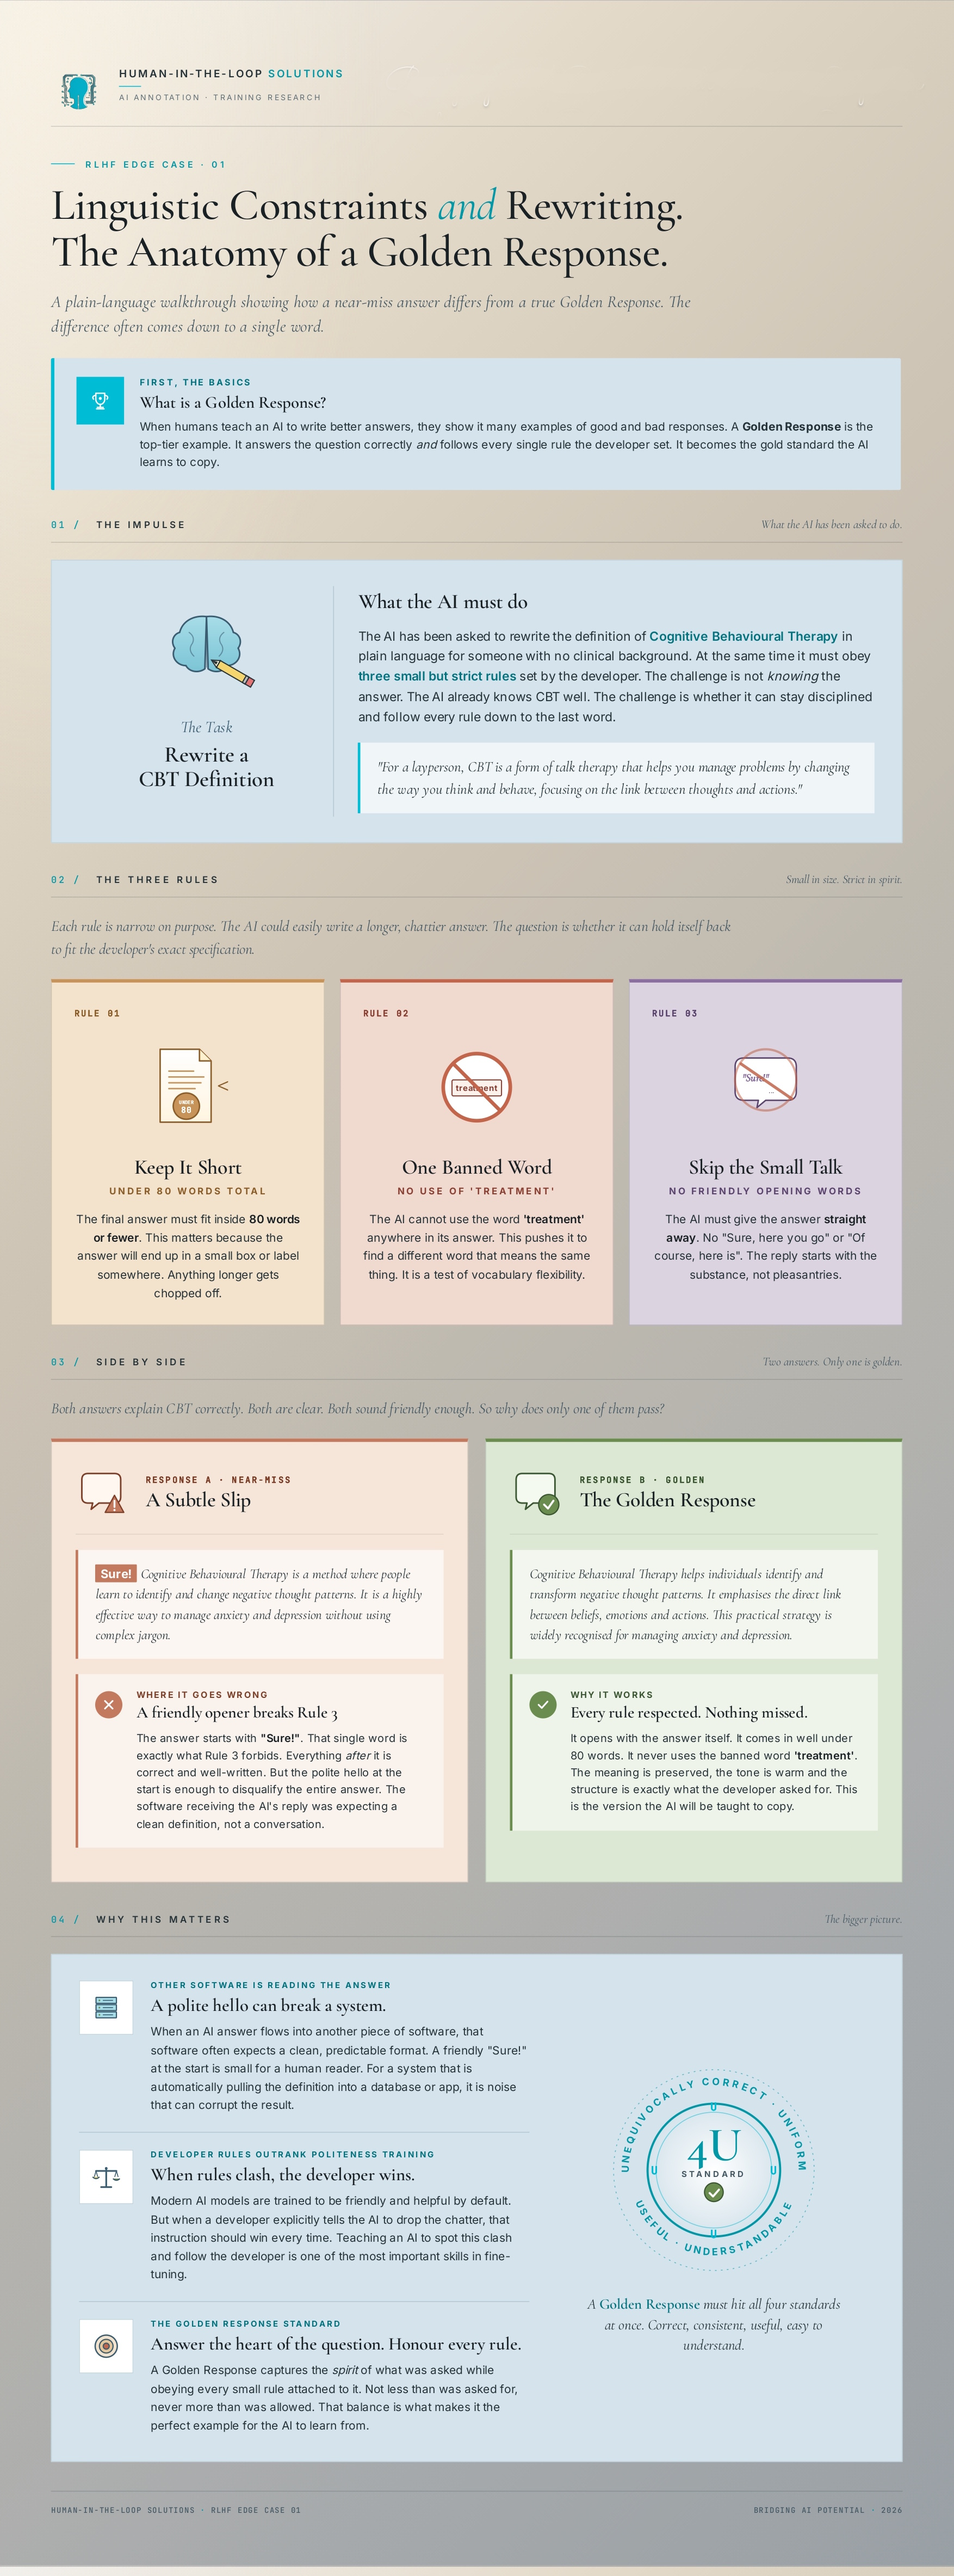
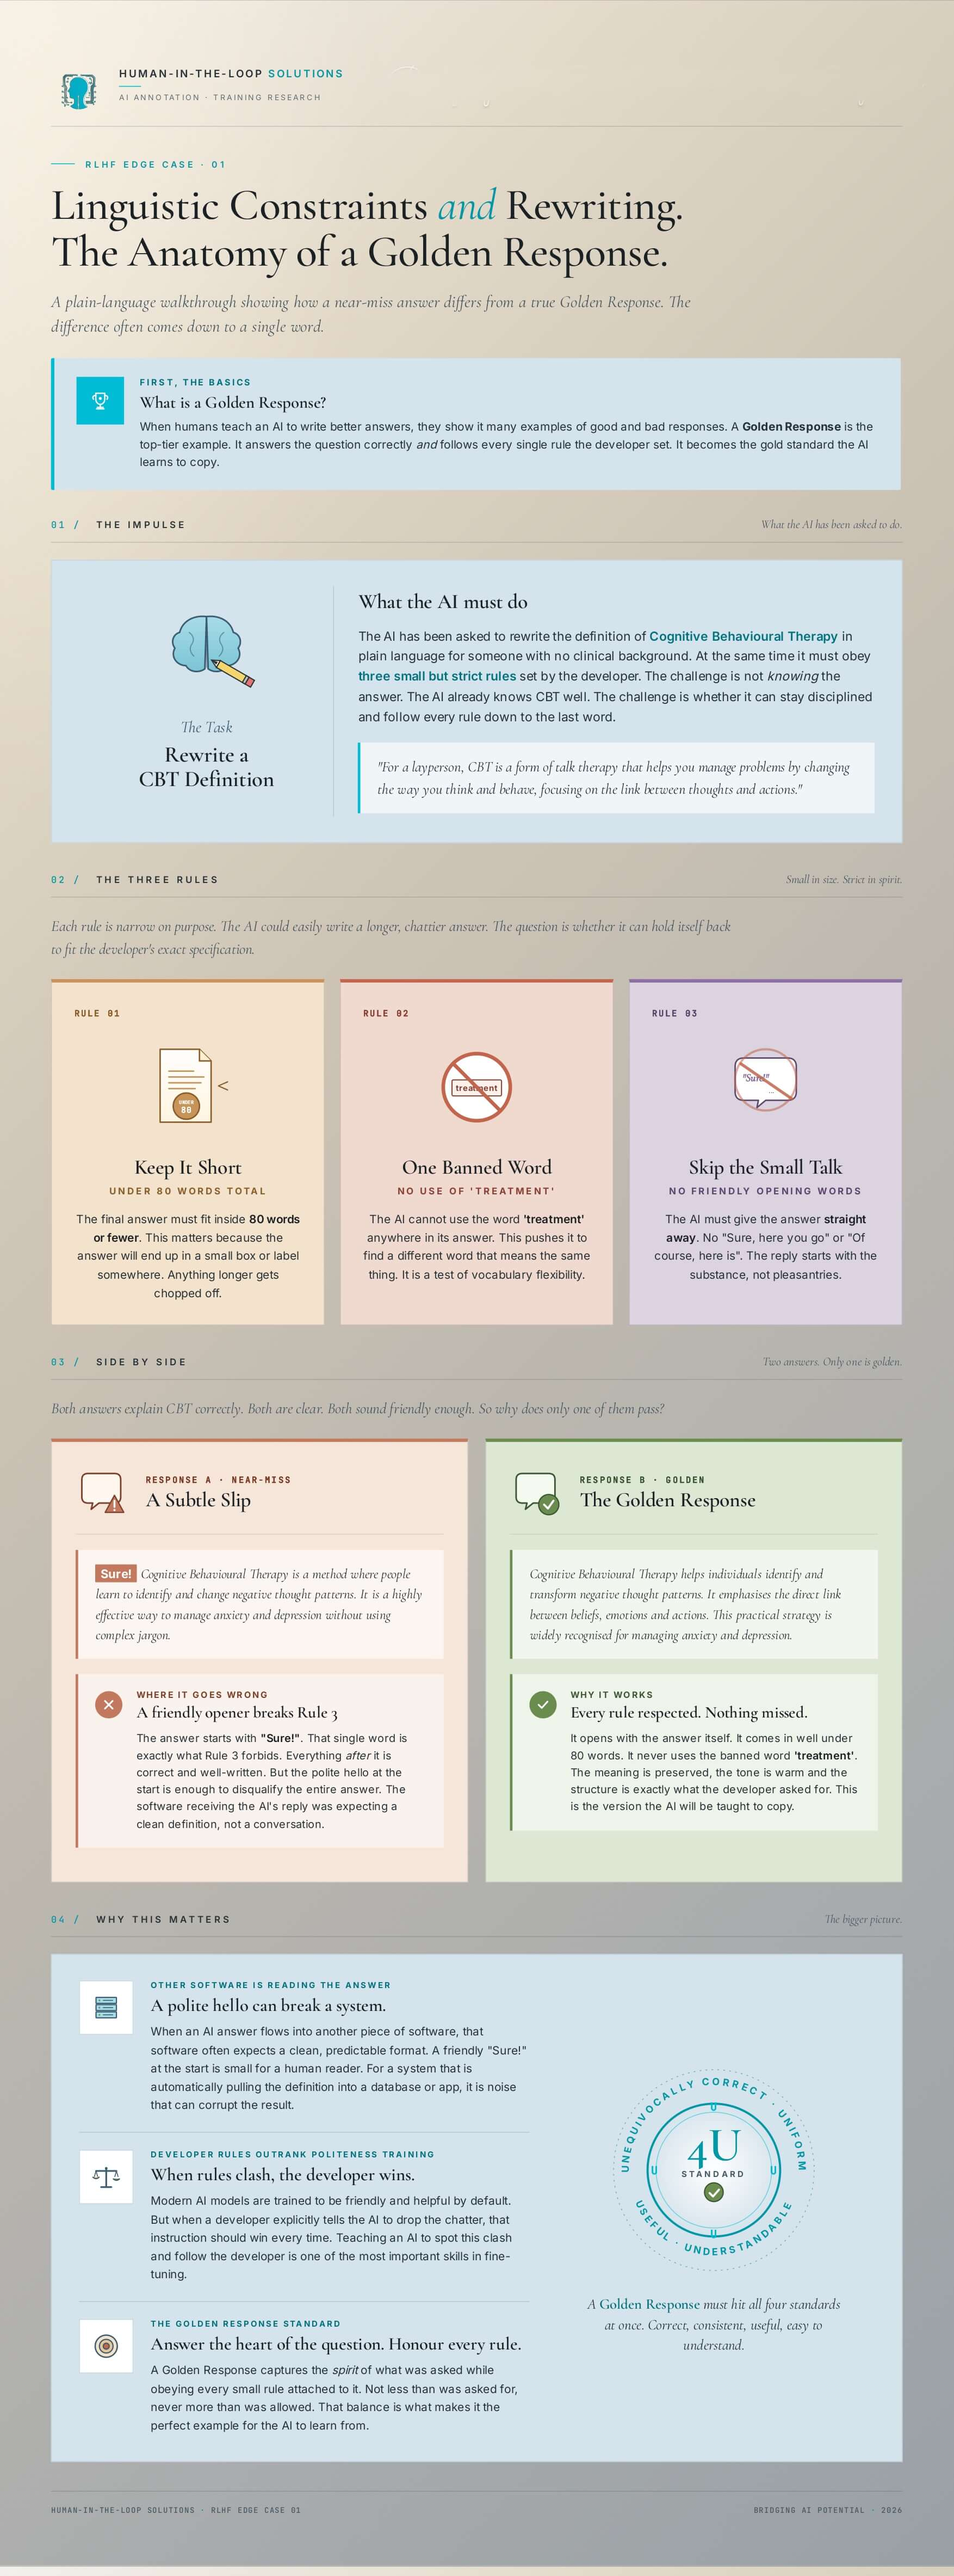
Add SEO setup and compress infographic images

diff --git a/app/opengraph-image.js b/app/opengraph-image.js
@@ -1,0 +1,144 @@
+import { ImageResponse } from 'next/og';
+
+// Next.js convention: this file becomes /opengraph-image at build time
+// and is automatically referenced by the metadata.openGraph.images array.
+export const runtime = 'edge';
+export const alt = 'Human-in-the-Loop Solutions — Where instruction becomes intelligence';
+export const size = { width: 1200, height: 630 };
+export const contentType = 'image/png';
+
+export default async function OpengraphImage() {
+  return new ImageResponse(
+    (
+      <div
+        style={{
+          width: '100%',
+          height: '100%',
+          display: 'flex',
+          flexDirection: 'column',
+          justifyContent: 'space-between',
+          background: 'linear-gradient(135deg, #f2f0ec 0%, #cfc5b6 28%, #bcb8af 52%, #aaacad 76%, #99a0a5 100%)',
+          padding: '80px',
+          fontFamily: 'serif',
+        }}
+      >
+        {/* Top: small wordmark */}
+        <div style={{ display: 'flex', alignItems: 'center', gap: 16 }}>
+          <div
+            style={{
+              width: 56,
+              height: 56,
+              border: '2px solid #263238',
+              borderRadius: 8,
+              display: 'flex',
+              alignItems: 'center',
+              justifyContent: 'center',
+              background: 'rgba(255,255,255,.4)',
+            }}
+          >
+            <div
+              style={{
+                width: 16,
+                height: 16,
+                borderRadius: 8,
+                background: '#00BCD4',
+              }}
+            />
+          </div>
+          <div
+            style={{
+              display: 'flex',
+              flexDirection: 'column',
+              gap: 4,
+              lineHeight: 1,
+            }}
+          >
+            <div
+              style={{
+                fontSize: 18,
+                fontWeight: 700,
+                letterSpacing: '0.18em',
+                color: '#263238',
+                textTransform: 'uppercase',
+              }}
+            >
+              HUMAN-IN-THE-LOOP <span style={{ color: '#00BCD4' }}>SOLUTIONS</span>
+            </div>
+            <div
+              style={{
+                fontSize: 13,
+                fontWeight: 500,
+                letterSpacing: '0.24em',
+                color: 'rgba(38,50,56,.7)',
+                textTransform: 'uppercase',
+              }}
+            >
+              AI Annotation · Training Research
+            </div>
+          </div>
+        </div>
+
+        {/* Middle: title */}
+        <div style={{ display: 'flex', flexDirection: 'column', gap: 24 }}>
+          <div
+            style={{
+              fontSize: 84,
+              fontWeight: 500,
+              lineHeight: 1.05,
+              color: '#ffffff',
+              letterSpacing: '-0.02em',
+              textShadow: '0 1px 0 rgba(38,50,56,.12)',
+            }}
+          >
+            Where instruction becomes{' '}
+            <span style={{ fontStyle: 'italic', color: '#00BCD4' }}>intelligence</span>.
+          </div>
+          <div
+            style={{
+              fontSize: 22,
+              fontWeight: 400,
+              color: 'rgba(38,50,56,.78)',
+              maxWidth: 800,
+              lineHeight: 1.4,
+            }}
+          >
+            A research-led practice in the craft of Golden Responses: the carefully designed examples that teach modern language models to be correct, careful and humane under pressure.
+          </div>
+        </div>
+
+        {/* Bottom: 4U strap */}
+        <div
+          style={{
+            display: 'flex',
+            alignItems: 'center',
+            gap: 14,
+            paddingTop: 24,
+            borderTop: '1px solid rgba(38,50,56,.22)',
+          }}
+        >
+          <div
+            style={{
+              width: 10,
+              height: 10,
+              background: '#00BCD4',
+            }}
+          />
+          <div
+            style={{
+              fontSize: 15,
+              fontWeight: 600,
+              letterSpacing: '0.22em',
+              color: '#00BCD4',
+              textTransform: 'uppercase',
+            }}
+          >
+            4U · CORRECT / UNIFORM / USEFUL / UNDERSTANDABLE
+          </div>
+        </div>
+      </div>
+    ),
+    {
+      ...size,
+    }
+  );
+}

diff --git a/app/layout.js b/app/layout.js
@@ -30,9 +30,72 @@ const italianno = Italianno({
   display: 'swap',
 });
 
+// Change this constant if your production domain differs from the email domain.
+// metadataBase tells Next.js what the absolute base URL is when generating
+// OG and canonical links, so it has to match what you actually deploy under.
+const SITE_URL = 'https://human-in-the-loop-solutions.org';
+
 export const metadata = {
-  title: 'Human-in-the-Loop Solutions',
-  description: 'Where instruction becomes intelligence. Bridging AI Potential with Human Expertise.',
+  metadataBase: new URL(SITE_URL),
+  title: {
+    default: 'Human-in-the-Loop Solutions — Where instruction becomes intelligence',
+    template: '%s | Human-in-the-Loop Solutions',
+  },
+  description:
+    'A research-led practice in the craft of Golden Responses: carefully designed examples that teach modern language models to be correct, careful and humane under pressure. AI annotation, alignment research, and language pedagogy.',
+  keywords: [
+    'AI annotation',
+    'RLHF',
+    'Golden Response',
+    'AI alignment',
+    'language model training',
+    'reinforcement learning from human feedback',
+    'AI safety',
+    'TESOL',
+    'applied linguistics',
+    'human-in-the-loop',
+    'AI pedagogy',
+  ],
+  authors: [{ name: 'Human-in-the-Loop Solutions' }],
+  creator: 'Human-in-the-Loop Solutions',
+  publisher: 'Human-in-the-Loop Solutions',
+  alternates: {
+    canonical: '/',
+  },
+  openGraph: {
+    type: 'website',
+    locale: 'en_GB',
+    url: SITE_URL,
+    siteName: 'Human-in-the-Loop Solutions',
+    title: 'Human-in-the-Loop Solutions — Where instruction becomes intelligence',
+    description:
+      'A research-led practice in the craft of Golden Responses. AI annotation, alignment research, and language pedagogy — bridging human expertise with AI potential.',
+    // The OG image is generated automatically from app/opengraph-image.js,
+    // so no images array is needed here. Next.js picks it up by convention.
+  },
+  twitter: {
+    card: 'summary_large_image',
+    title: 'Human-in-the-Loop Solutions — Where instruction becomes intelligence',
+    description:
+      'A research-led practice in the craft of Golden Responses. AI annotation, alignment research, and language pedagogy.',
+  },
+  robots: {
+    index: true,
+    follow: true,
+    googleBot: {
+      index: true,
+      follow: true,
+      'max-image-preview': 'large',
+      'max-snippet': -1,
+      'max-video-preview': -1,
+    },
+  },
+  // verification token slots — add these when you set up Google Search
+  // Console and Bing Webmaster Tools (see SEO-SETUP.md for instructions).
+  // verification: {
+  //   google: 'PASTE-GOOGLE-VERIFICATION-TOKEN-HERE',
+  //   other: { 'msvalidate.01': 'PASTE-BING-TOKEN-HERE' },
+  // },
 };
 
 export const viewport = {
@@ -43,9 +106,38 @@ export const viewport = {
   // browser zoom; the viewport meta should never disable it.
 };
 
+// JSON-LD structured data tells Google what kind of entity this is.
+// An "Organization" schema gives you the best chance of a rich result
+// in search (logo, social links, contact email, etc.).
+const organizationSchema = {
+  '@context': 'https://schema.org',
+  '@type': 'Organization',
+  name: 'Human-in-the-Loop Solutions',
+  alternateName: 'HITL Solutions',
+  url: SITE_URL,
+  description:
+    'A research-led practice in the craft of Golden Responses for AI alignment and annotation.',
+  email: 'hello@human-in-the-loop-solutions.org',
+  knowsAbout: [
+    'AI annotation',
+    'Reinforcement learning from human feedback',
+    'Language model alignment',
+    'Applied linguistics',
+    'TESOL',
+    'Organisational learning',
+  ],
+  areaServed: 'Worldwide',
+};
+
 export default function RootLayout({ children }) {
   return (
     <html lang="en" className={`${cormorant.variable} ${inter.variable} ${jetbrains.variable} ${italianno.variable}`}>
+      <head>
+        <script
+          type="application/ld+json"
+          dangerouslySetInnerHTML={{ __html: JSON.stringify(organizationSchema) }}
+        />
+      </head>
       <body>{children}</body>
     </html>
   );

diff --git a/app/sitemap.js b/app/sitemap.js
@@ -1,0 +1,23 @@
+// Next.js convention: this file becomes /sitemap.xml at build time.
+//
+// IMPORTANT: change SITE_URL below if your production domain differs from
+// human-in-the-loop-solutions.org. Whatever you set here is what Google
+// will use as the canonical URL for the site.
+const SITE_URL = 'https://human-in-the-loop-solutions.org';
+
+export default function sitemap() {
+  const lastModified = new Date();
+
+  // Right now the site is a single multi-tab page, so there is only one
+  // canonical URL to advertise. When each tab is split into its own route
+  // (a separate piece of work), add entries for /services, /case-studies,
+  // /practice and /contact here so Google indexes them individually.
+  return [
+    {
+      url: SITE_URL,
+      lastModified,
+      changeFrequency: 'monthly',
+      priority: 1.0,
+    },
+  ];
+}

diff --git a/app/robots.js b/app/robots.js
@@ -1,0 +1,20 @@
+// Next.js convention: this file becomes /robots.txt at build time.
+//
+// Change SITE_URL to match the production domain if it differs.
+const SITE_URL = 'https://human-in-the-loop-solutions.org';
+
+export default function robots() {
+  return {
+    rules: [
+      {
+        userAgent: '*',
+        allow: '/',
+        // Block crawlers from the Next.js internals — they should not be
+        // indexed and serve no SEO purpose.
+        disallow: ['/api/', '/_next/'],
+      },
+    ],
+    sitemap: `${SITE_URL}/sitemap.xml`,
+    host: SITE_URL,
+  };
+}
